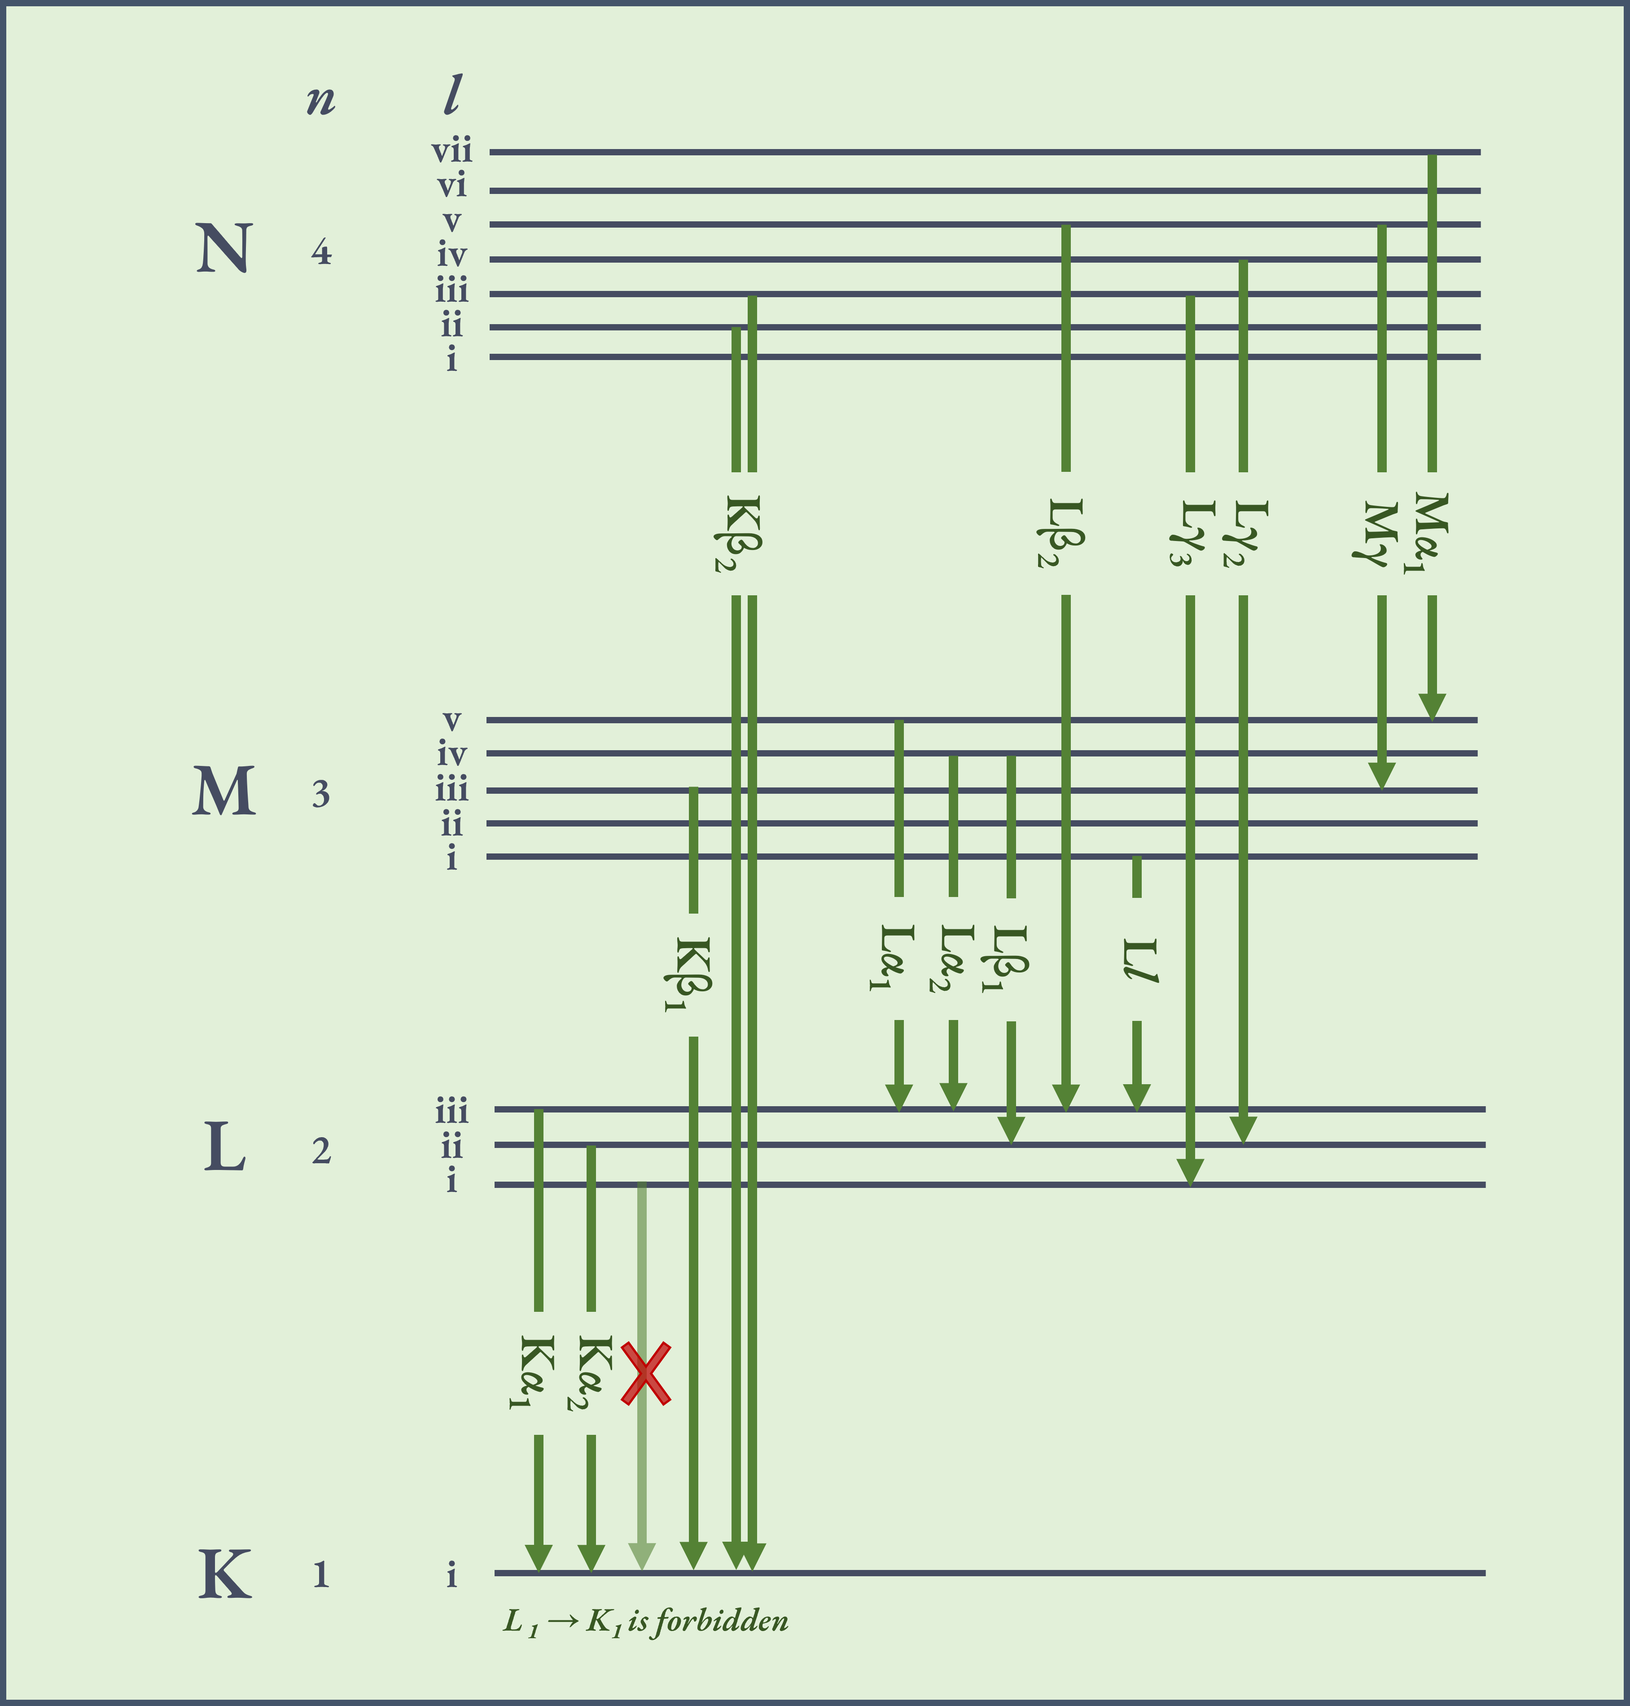
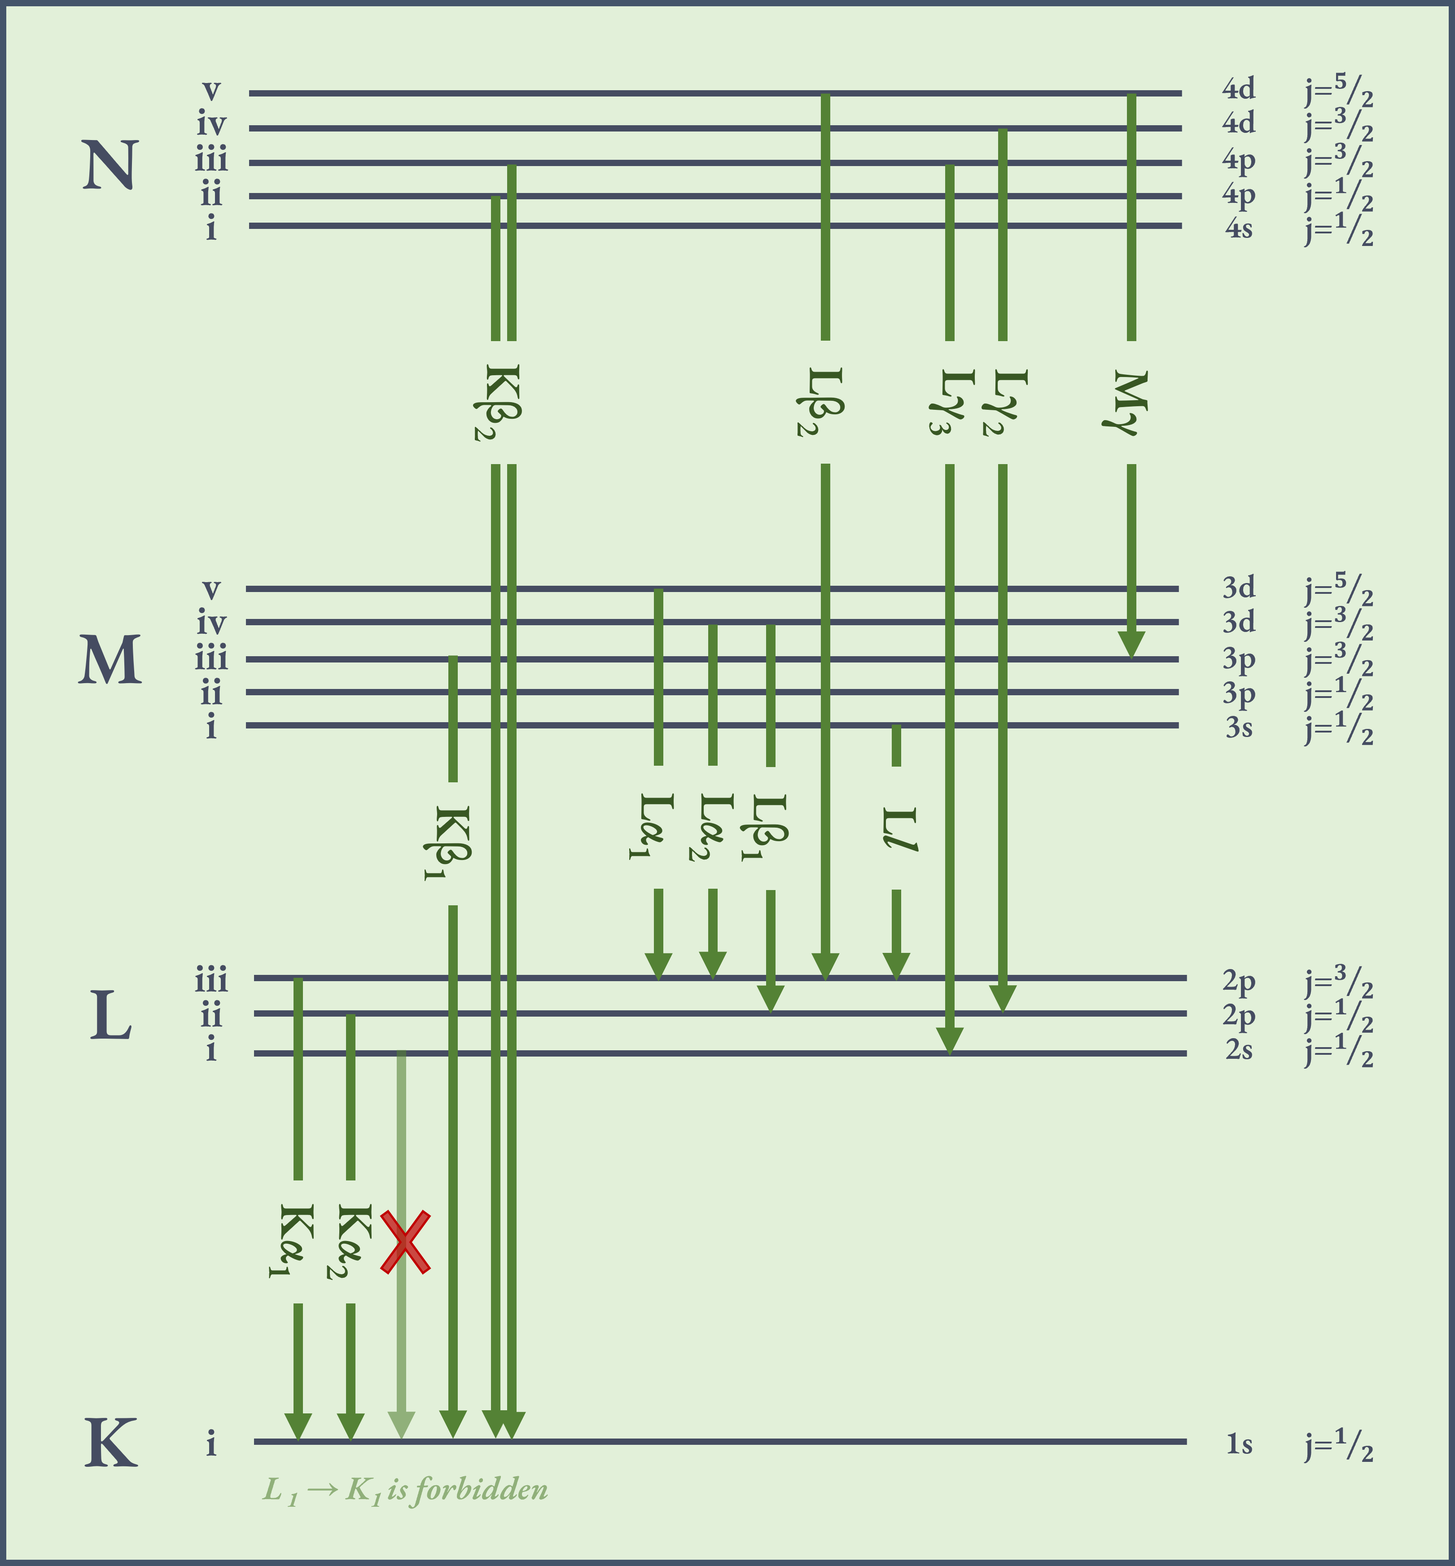
section on background x-rays

diff --git a/chapters/theory.tex b/chapters/theory.tex
@@ -32,6 +32,8 @@ This theory chapter will cover the generation of X-rays, the SEM system, the EDS
 \section{Generation of X-rays}
 \label{theory:xray_formation}
 
+\ton{I am somewhat unsure about the order here. Does it make senese to explain generation of X-rays before the SEM and EDS system?}
+
 
 % intro
 % The first step towards improving the performance of EDS is to understand how the characteristic X-rays are generated, as this is the basis for the EDS detector and the data processing of the spectra.
@@ -117,11 +119,14 @@ The energy of the characteristic X-ray is usually measured directly in keV \cite
 
 % comment on the E_C, which is slightly higher than the energy of the photon
 As seen in \cref{eq:theory:xray_formation:characteristic:step2:energy}, the energy of the characteristic X-ray is somewhat lower than the critical ionization energy, E$_C$.
-The binding energy of the inner shell electron is far stronger than for the outer shell electron.
-\ton{Is this explained well enough?}
-The difference makes E$_C$ slightly higher than the energy of the characteristic X-ray, which prevents for instance a K$\alpha$ X-ray from Fe to ionize the same transition in another Fe atom.
-The probability of ionization is greatest when the energy is just above the critical ionization energy.
+The energy required to ionize an electron, E$_C$, can be refered to as the absorption edge, because the absorption an atom can do increase abruptly at the energy of the absorption edge.
+This absorption effect is usually visualized with a plot of the mass absorption coefficient, as a function of energy.
+E$_C$ is slightly higher than the energy of the characteristic X-ray, which prevents for instance a K$\alpha$ X-ray from Fe to ionize the same transition in another Fe atom.
+In other words, because of the absorption edges an element is more transparent to its own characteristic X-rays \cite[Ch. 4.4]{goldstein_scanning_2018}.
+After the sharp increase at the absorption edge, the probability of absorption decreases.
+This makes the probability of ionization greatest when the energy is just above the critical ionization energy.
 If the energy is significantly higher than the critical ionization energy, the probability of ionization is lowered \cite[p. 78]{curry_radiology_k_absorption}.
+This implies that using a higher energy for ionization is not necessarily better, which is discussed more in \cref{theory:eds:user_controlled_parameters}.
 
 
 When the outer shell electron is relaxed, a new hole is generated in the outer shell.
@@ -145,14 +150,14 @@ The ratio of characteristic X-ray photons to Auger electrons is known as the flu
 
 The fluorescence yield is heavily dependent on the ionized atom, with higher yields for heavier atoms.
 $\omega$ is also dependent on the shell that is ionized, with the typical trend being K > L > > M \cite[p. 267]{goldstein_scanning_2018}.
-The dependence on $Z$ and the shell is shown in \cref{fig:theory:fluorescence_yield}, a figure borrowed from Goldstein \cite{goldstein_scanning_2018}.
+The dependence on Z and the shell is shown in \cref{fig:theory:fluorescence_yield}, a figure borrowed from Goldstein \cite{goldstein_scanning_2018}.
 
 % figure/fluorescence_yield_Goldstein_Fig4.3.d.png
 \begin{figure}[ht]
     \centering
     \includegraphics[width=0.7\textwidth]{figures/fluorescence_yield_Goldstein_Fig4-3-d.png}
     \caption{
-        Fluorescent yield for K-, L- and M-shell, as a function of atomic number $Z$.
+        Fluorescent yield for K-, L- and M-shell, as a function of atomic number Z.
         The figure is borrowed from Goldstein \cite[Fig. 4.3 (d)]{goldstein_scanning_2018}.
     }
     \label{fig:theory:fluorescence_yield}
@@ -188,10 +193,11 @@ The IUPAC naming convention note both the orbital in the inner and outer shell, 
     \includegraphics[width=0.95\linewidth]{figures/transition_lines.png}
     \caption{
         Schematic of the electron relaxations with their naming convention.
-        The lines are the orbitals in the different shells, and the arrows are the relaxations.
+        The horisontal lines are the orbitals in the different shells, and the arrows are the relaxations.
         Higher orbitals have higher energy, but the distance between the orbitals is not to scale.
-        Quantum number $n$ and $l$ are shown on the left side of the figure.
-        The figure also show one forbidden line, where $l$ does not change.
+        The shell name and orbital number are shown on the left, and quantum number $n$, $l$, and $j$ are shown on the right.
+        The azimuthal quantum number $l$ is included as the orbital names, i.e. $s$, $p$, and $d$.
+        The figure also show one forbidden line, where neither $l$ or $j$ change.
         \cref{tab:theory:naming_convention} include more transitions.
         \cref{fig:theory:xray_formation:Sb_L-peaks} shows the Sb L-lines in a spectrum.
     }
@@ -243,27 +249,163 @@ In gallium the K$\alpha_1 = 9252$ eV and K$\alpha_2 = 9223$ eV \cite{thompson_x-
 
 
 
-\clearpage
+% \clearpage
 
-\subsection{Energy and intensity of characteristic X-rays}
-\label{theory:xray_formation:energy_intensity}
+\subsection{Energy and width of characteristic X-rays}
+\label{theory:xray_formation:energy}
+
+% what the energy is
+
+The energy of the X-rays is the energy difference between the orbitals, and the spread in energy from a singel line is typically between 1-10 eV.
+The energy difference between the orbitals increase with atomic number Z, as the electrons are bound tighter to the nucleus.
+The most central parts of the energy of the X-rays have been mentioned earlier, but the width of the lines is also important.
+This section also includes a short discussion of where to find the energy of the X-rays.
+
+% widths
+The natural width of Mn K$\alpha$ is around 1.5 eV, while the measured width in EDS is typically between 120-140 eV \cite[Ch. 16.1.1]{goldstein_scanning_2018}.
+This peak broadening is due to counting statistics and instrument electronics, which is discussed in \cref{theory:eds:hardware}.
+The broadness of the peaks in EDS increase with energy, and the peak broadening effect is the most limiting factor for the energy resolution of EDS.
+Techniques have been developed to identify and separate peaks which overlap in energy, like peak deconvolution and peak fitting.
+
+
+\ton{Should I include a figure with natural line widths and actual line widths?}
+
+
+% where to find the energy
+% issues when a line is not listed in your source
+The energy of characteristic X-rays have been measured and calculated, and published in tables and databases.
+One source is the X-ray Data Booklet \cite{thompson_x-ray_2004}, another is one of the multiple the NIST X-ray databases, like the "X-Ray Transition Energies Database" \cite{nist_xraydatabase}.
+The Python package HyperSpy includes an elemental database with the energy of characteristic X-rays \cite{hyperspy_1.7.1}, which is based on NIST database 66, "X-Ray Form Factor, Attenuation, and Scattering Tables" \cite{nist_xraydatabase_hyperspy}.
+The different sources are focused on certain areas, like how the NIST database 128 includes experimental data, while the HyperSpy database is less comprehensive but faster to use.
+An analyst should be aware of the limitations of the used source, like how the HyperSpy database does not include the M-lines for Sb.
+Trusting a source blindly can lead to mislabeling in the qualitative analysis, which is discussed in \brynjar{Ref to discussion on this}.
+The reason for the missing M-lines in the HyperSpy database is probably the low intensity of the M-lines, which is discussed in the next section.
+
+
+
+\subsection{Intensity of characteristic X-rays}
+\label{theory:xray_formation:intensity}
+
+% some transitions are present, but intensity differs
+% the selection rules, forbidden transitions
+Just as the energy of the X-ray lines increase with atomic number, the number of possible lines increase too.
+As the energy difference between orbitalt increse, close lines like K$\alpha_1$ and K$\alpha_2$ are, as explained earlier, resolved.
+The number of possible lines increase because there are more orbitals giving more possible transitions.
+However, not all transitions are allowed, and their intensity varies.
+The selection rules, given in \cref{eq:theory:selectionrules}, govern which transitions are allowed.
+The selection rule applies to the electron which is being relaxed, and it is \cite[Sec. 8.2.2.2]{hollas_modern_2004}:
+
+\begin{equation}
+    \label{eq:theory:selectionrules}
+    \Delta n \ge 1;\qquad \Delta l  = \pm 1;\qquad \Delta j = 0, \pm 1
+\end{equation}
+
+where $\Delta n$ is the change in principal quantum number, $\Delta l$ is the change in orbital angular momentum, and $\Delta j$ is the change in total angular momentum.
+The orbital angular momentum is also called the azimuthal quantum number.
+The three quantum numbers are included in \cref{fig:theory:xray_formation:lines}, for K to N$_5$.
+Lines which are forbidden by the selection rules, like the transition from K to L$_1$, have an intensity of zero.
+Some lines are allowed, but have too low intensity to be detected in EDS.
+
+% the intensity of allowed lines
+The intensity of the allowed lines is proportional to the concentration of the element in the sample, along with effects like the atomic number through the scattering cross section and fluorescence yield covered in \cref{theory:xray_formation:characteristic}.
+The dependence on the concentration or weight fraction, is the basis for the quantitative analysis in EDS.
+The other effects which influence the intensity are not trivial to calculate accurately, and can make the quantitative analysis less accurate.
+Corrections for the effect of the atomic number on the intensity of the lines are discussed in \brynjar{Cref ZAF / PRZ}.
+Goldstein includes an experimentally based equation for the intensity of X-rays from bulk specimen \cite[Eq. 4.8]{goldstein_scanning_2018}:
+
+\begin{equation}
+    \label{eq:theory:xray_formation:intensity}
+    I \approx i_p (U-1)^n
+\end{equation}
+
+where $I$ is the relative intensity of X-rays from different atomic numbers and shells, $i_p$ is the beam current, U is the overvoltage (covered in \cref{theory:eds:user_controlled_parameters}), and $n$ is a constant which depends on Z and the excited orbital.
+It is stated in Goldstein that $n$ is typically between 1.5 and 2.0, and the equation is based on the work presented and published by Lifshin et al. 1980 \cite{lifshin1980}.
 
 
 % intensity of formation is not the same as intensity of detection
 % TODO: include something about the escape depth of the X-rays, which increases with energy.
+Additionally, the intensity of detected X-rays is not the same as the intensity of the X-rays which are generated.
+The probability of absorption increase with density and with the travel distance, and is also dependent on the absorption edges of the materials in the specimen.
+Photons with lower energy are absorbed more easily than photons with higher energy, i.e. the escape depth of the X-rays increase with their energy.
+When a X-ray photon is absorbed within the specimen, it can ionize an atom and generate a new X-ray with a lower energy.
+This process is called fluorescence, and is discussed in \brynjar{Ref to right section}.
 
-% from line to peak here?
 
-% at least include the natural line width, with a plot of a theoretical spectrum.
+\ton{Is this enough about energy and intensity?}
 
 
-% absorption edges
+
+
+
+
+
 
 
 \subsection{Background X-rays}
 \label{theory:xray_formation:background}
 
+% further down
+% Lastly, the \textbf{background X-rays} are formed by the deacceleration of the incident beam electrons because of the Coulomb fields of the atoms in the specimen, and this deacceleration of charged particles emits photons \cite{notaros_electromagnetics_2010}.
+% The background X-rays are white noise, giving no information about the sample, and is generated in the whole interaction volume.
+
 % intro
+In addition to the characteristic X-rays generated, the electron beam also generates background X-rays.
+The background radiation is also called the bremsstrahlung, breaking radiation, and the continuum radiation.
+These X-rays are formed by the deacceleration of the incident beam electrons because of the Coulomb fields of the atoms in the specimen, where the electron loose kinetic energy.
+This effect include both velocity and directional changes, and the changes in the incident electrons paths are visualized in a Monte Carlo simulation in \cref{fig:montecarlo_BSE}.
+Acceleration and deacceleration of charged particles emits photons \cite{notaros_electromagnetics_2010}.
+The background X-rays are white noise, giving no information about the sample.
+However, the background radiation can be used to calculate at least one parameter describing the detector performance, namely the Duane-Hunt limit covered in \cref{theory:detector_status:duanehunt}.
+Pre-modelling the background based on the sample geometry and composition can be used to check for incorrect tilt or shadowing \cite{edax_insight_2019}.
+To do accurate qualitative analysis, the background radiation must be subtracted from the total spectrum.
+This is can be done in multiple ways, like pre-modelling, linear interpolation, background filtering, and background modelling \cite{liao2006practical}
+In this thesis, background modelling is used, where the background is modelled as a polynomial function of the energy.
+
+
+\ton{More on modelling here? I think no, and maybe add more in the data section.}
+
+
+% the energy, 1/E
+The energy lost by an electron in a single scattering event can be any value from zero to the incident electron energy, E$_0$.
+In other words, the background X-rays can have any energy from 100 eV to the incident electron energy \cite[Ch. 4.3]{goldstein_scanning_2018}.
+The probability of a background X-ray with energy E can be described by the Kramer's cross section:
+
+% N(E) = (K Z (E_0-E))/E
+\begin{equation}
+    \label{eq:theory:xray_formation:background}
+    N(E) = \frac{K Z (E_0-E)}{E}
+\end{equation}
+
+where $N(E)$ is the number of background X-rays with energy $E$, $K$ is Kramer's constant, $Z$ is the atomic number of the specimen, and $E_0$ is the incident electron energy.
+As seen in \cref{eq:theory:xray_formation:background}, the formation of background radiation is inversely proportional to the energy of the X-rays, i.e. $N(E) \propto 1/E$.
+However, the low energy X-rays formed inside the specimen are absorbed by the specimen, resulting in a difference between the detected and the generated background X-rays.
+The difference between the generated and detected background X-rays is visualized in \cref{fig:background_xrays}.
+The detected background X-rays have a peak in the low keV region, depending on the specimen and acceleration voltage, and goes rapidly towards zero when the energy approach zero.
+In addition, the absorption edges of the materials in the specimen influence the intensity of the background radiation.
+As the specimen absorbs more above an absorption edge, the intensity of the background can be observed to decrease abrupt just above a strong absorption edge \cite[p. 59]{goldstein_scanning_2018}.
+This effect was observed in the authors project thesis, with a suggestion of splitting the background modelling into two parts, one for the low energy background and one for the high energy background \cite{project_report}.
+
+% figures/background_generated_detected.png
+\begin{figure}[ht]
+    \centering
+    \includegraphics[width=0.65\linewidth]{figures/background_generated_detected.png}
+    \caption{
+        The difference between the generated and detected background X-rays.
+        The detected background is shown in blue, and the generated background is shown in the dashed black line.
+    }
+    \label{fig:background_xrays}
+\end{figure}
+
+
+% figure
+
+
+% SEM vs TEM
+The formation of background radiation is anisotropic, with more signal in the direction that the electrons are travelling.
+In thin samples, where the electron beam trajectories are almost aligned, this anisotropy can cause a variation in the continuum intensity along the beam, with the forward direction differing from the backward direction.
+However, in thick samples, elastic scattering randomizes the beam electron trajectory segments, effectively eliminating this anisotropy and resulting in an isotropic X-ray continuum.
+This is visualized in the schematic of the interaction volume in \cref{fig:interaction_volume}, and the previous mentioned Monte Carlo simulation in \cref{fig:montecarlo_BSE}.
+\ton{Do you want this paragraph about SEM vs TEM included?}
 
 
 
@@ -343,7 +485,7 @@ Short working distances can produce the smallest probes, but they limit the dept
 The position of the probe on the surface is controlled by the \textbf{scanning coils} located between the condenser and objective lenses.
 These scanning coils are used to create a raster scan, where the probe is moved in a grid pattern across the sample surface.
 In each position the detector(s) register a signal, which is put together to form an 2D image, where each probe position corresponds to a pixel in the image.
-The raster scan is vizualized in \cref{fig:sem_rasterscan}.
+The raster scan is visualized in \cref{fig:sem_rasterscan}.
 The figure shows a probe that is moved in a grid pattern across the sample surface, resulting in a 2D image with different intensities.
 The EDS signal is chosen for the visualization in the figure, but the same principle with the image being an intensity map applies to other signals like secondary electrons.
 Scanning the probe over a smaller area, with equally many pixels, results in a zoomed in image.
@@ -435,7 +577,7 @@ In addition to the three types of electron signals, the beam interaction can als
 
 
 % Characteristic X-rays and background X-rays
-Formation of \textbf{characteristic X-rays} are covered in detail in \brynjar{cref to chapter on XRD}.
+Formation of \textbf{characteristic X-rays} are covered in detail in \cref{theory:xray_formation:characteristic}.
 In short, formation of characteristic follow the same principle as Auger electrons, but the energy difference between the outer and inner orbital is used to emit X-rays instead of electrons.
 Typical escape depths for X-ray signals are around 4000 nm \cite{hollas_modern_2004}.
 Lastly, the \textbf{background X-rays} are formed by the deacceleration of the incident beam electrons because of the Coulomb fields of the atoms in the specimen, and this deacceleration of charged particles emits photons \cite{notaros_electromagnetics_2010}.
@@ -709,6 +851,9 @@ The shape of the natural lines are Lorentzians, but the electronics broadens the
 This effect is due to the electronics, which handles X-ray pulses corresponding to energies between 100 eV and 40 keV.
 The energy resolution of an EDS detector is usually reported as the FWHM of the Mn K$\alpha$ line, which is in SDDs is typically between 120 and 140 eV.
 More on the energy resolution is discussed in \cref{theory:detector_status:energyres}.
+
+
+\brynjar{Add Gaussian formula here?}
 
 
 
